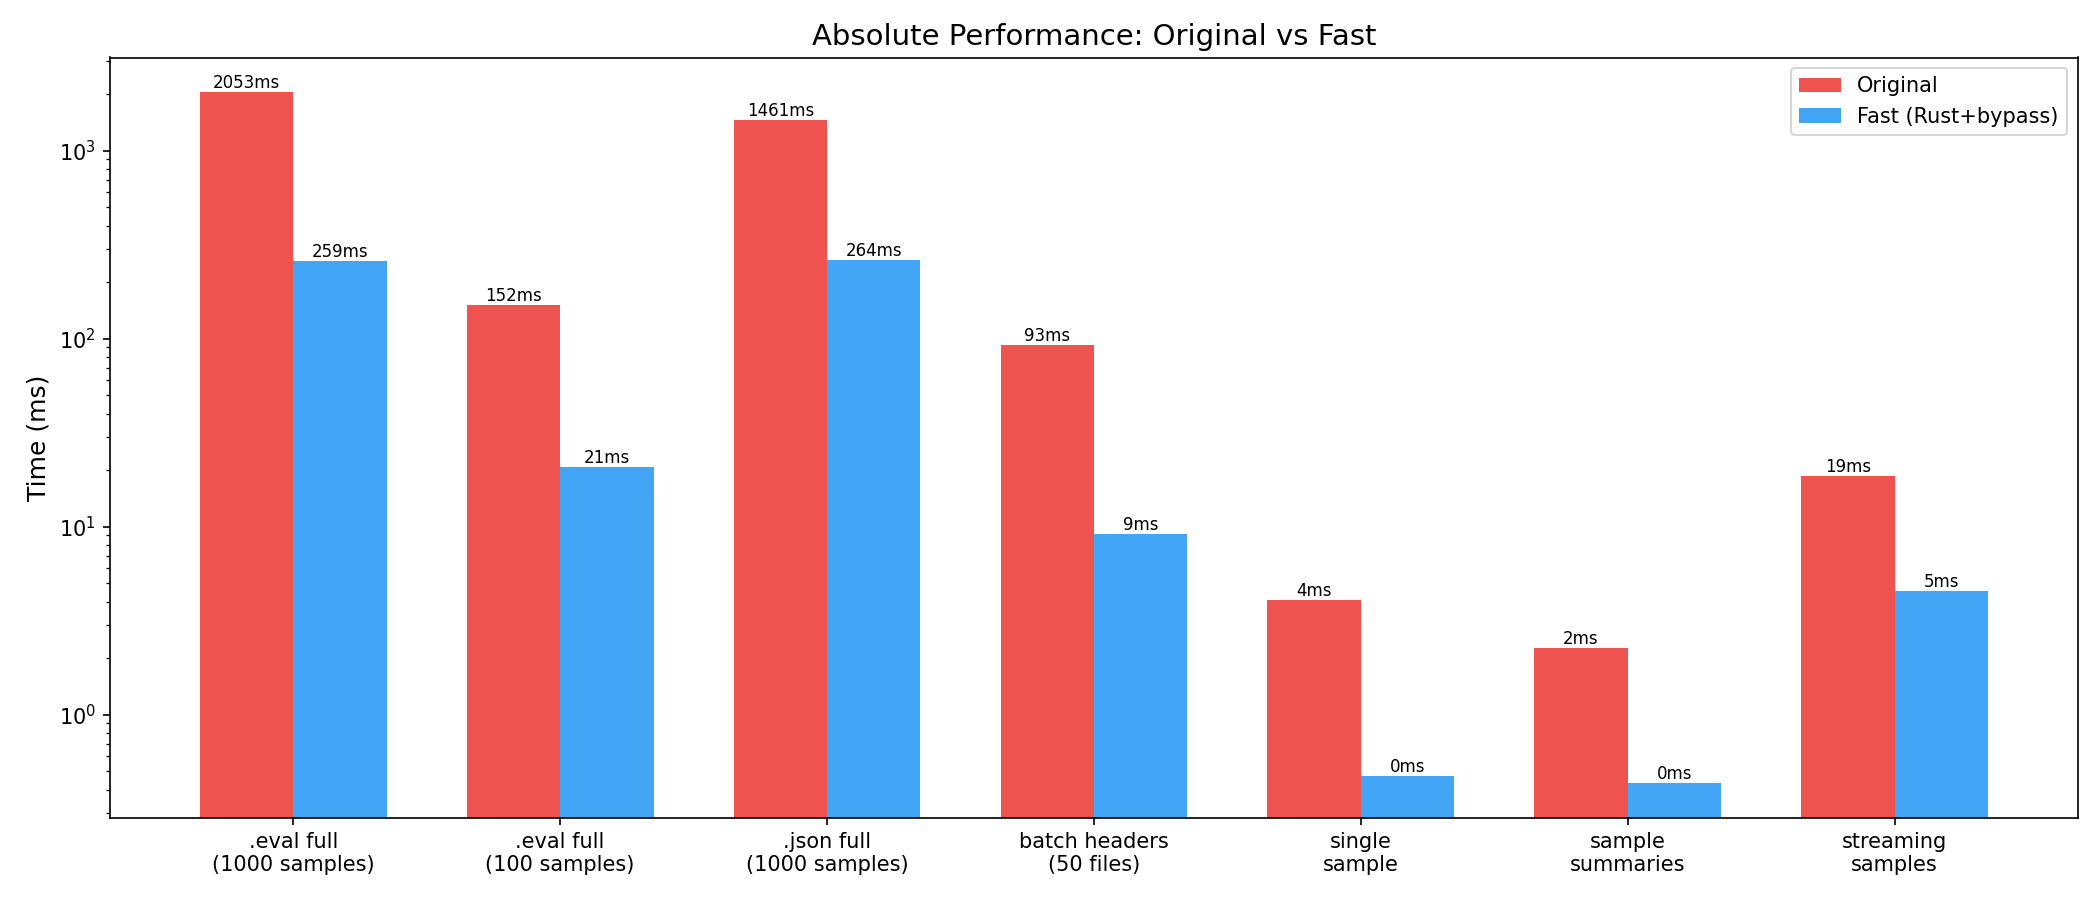
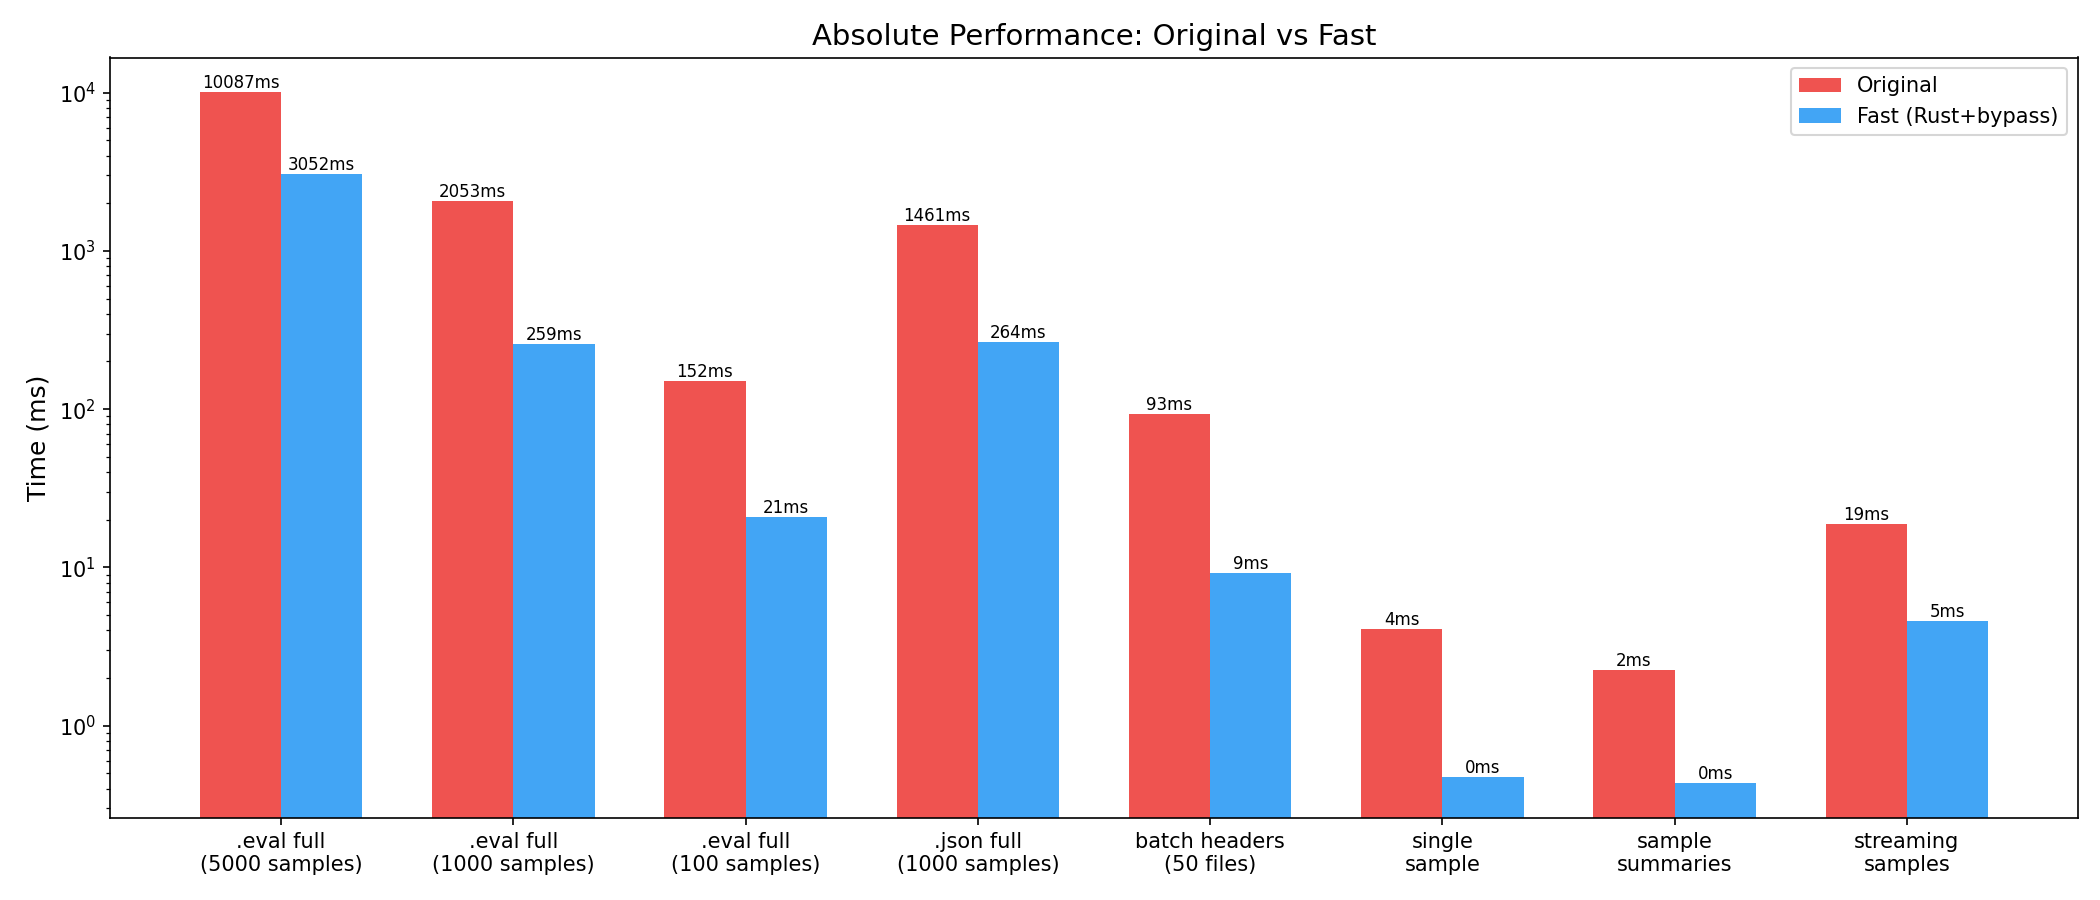
Add 5000-sample benchmark data to plots and write-ups
- Include 5000-sample .eval full read in comprehensive speedup plot (3.3x)
- Update write-ups with 5000-sample results
- Regenerate all plots

diff --git a/plot_comprehensive.py b/plot_comprehensive.py
@@ -44,6 +44,7 @@ def plot_speedup_overview(results):
 
     # Format labels
     label_map = {
+        "full_read_eval_5000_samples": ".eval full (5000)",
         "full_read_eval_1000_samples": ".eval full (1000)",
         "full_read_eval_100_samples": ".eval full (100)",
         "full_read_eval_10_samples": ".eval full (10)",
@@ -66,6 +67,7 @@ def plot_speedup_overview(results):
 
     # Order for display
     display_order = [
+        "full_read_eval_5000_samples",
         "full_read_eval_1000_samples", "full_read_eval_100_samples",
         "full_read_eval_10_samples", "full_read_eval_5_samples",
         "full_read_json_1000_samples", "full_read_json_100_samples",
@@ -137,6 +139,7 @@ def plot_absolute_times(results):
 
     # Focus on the most important operations
     key_ops = [
+        ("full_read_eval_5000_samples", ".eval full\n(5000 samples)"),
         ("full_read_eval_1000_samples", ".eval full\n(1000 samples)"),
         ("full_read_eval_100_samples", ".eval full\n(100 samples)"),
         ("full_read_json_1000_samples", ".json full\n(1000 samples)"),

diff --git a/writeups/write_up_optimization_features_polish.md b/writeups/write_up_optimization_features_polish.md
@@ -8,6 +8,7 @@ Optimize batch header performance to 5-10x, patch remaining unpatched functions 
 ### Performance Summary (All Operations)
 | Operation | Original | Fast | Speedup |
 |---|---|---|---|
+| .eval full read (5000 samples) | 10087ms | 3052ms | **3.30x** |
 | .eval full read (1000 samples) | 2053ms | 259ms | **7.94x** |
 | .eval full read (100 samples) | 152ms | 21ms | **7.32x** |
 | .json full read (1000 samples) | 1461ms | 264ms | **5.54x** |

diff --git a/writeups/write_up.md b/writeups/write_up.md
@@ -29,6 +29,7 @@ See `write_up_optimization_features_polish.md` for detailed findings and plots.
 ### Final Performance (All Operations)
 | Operation | Original | Fast | Speedup |
 |---|---|---|---|
+| .eval full read (5000 samples) | 10087ms | 3052ms | **3.30x** |
 | .eval full read (1000 samples) | 2053ms | 259ms | **7.94x** |
 | .eval full read (100 samples) | 152ms | 21ms | **7.32x** |
 | .json full read (1000 samples) | 1461ms | 264ms | **5.54x** |
